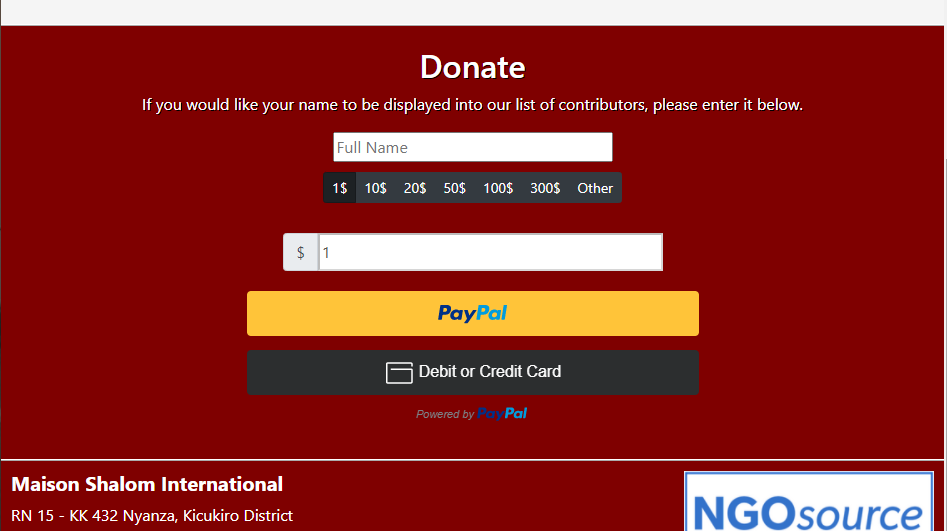
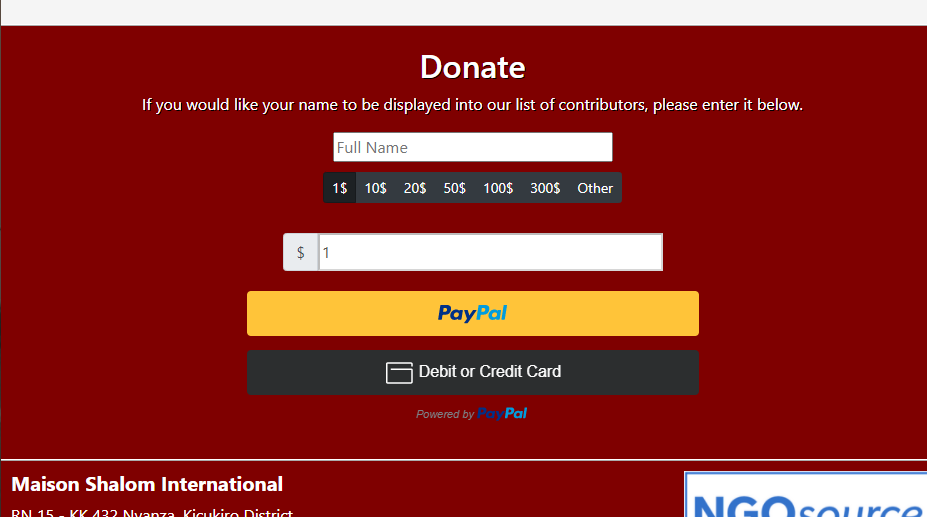
added border to donate page image

diff --git a/index.html b/index.html
@@ -55,14 +55,22 @@
 						<article class="post featured">
 							<header class="major">
 									<div class = "tools-div">
-									<a href="#csharp" ><img class="tools-logos" src="images/csharp.png" alt="C#" ></a><img class="tools-logos" src="images/cpp.png" alt="C++"><img class="tools-logos" src="images/python-logo.png" alt="python"><img class="tools-logos" src="images/html.png" alt="HTML"><img class="tools-logos" src="images/css.png" alt="CSS"><img class="tools-logos" src="images/javascript.png" alt="Js"><img class="tools-logos" src="images/angular.png" alt="Angular"><img class="tools-logos" src="images/react.png" alt="React" ><img class="tools-logos" src="images/sql.png" alt="MySQL">
+										<img class="tools-logos" src="images/csharp.png" alt="C#" >
+										<img class="tools-logos" src="images/cpp.png" alt="C++">
+										<img class="tools-logos" src="images/python-logo.png" alt="python">
+										<img class="tools-logos" src="images/html.png" alt="HTML">
+										<img class="tools-logos" src="images/css.png" alt="CSS">
+										<img class="tools-logos" src="images/javascript.png" alt="Js">
+										<img class="tools-logos" src="images/angular.png" alt="Angular">
+										<img class="tools-logos" src="images/react.png" alt="React">
+										<img class="tools-logos" src="images/sql.png" alt="MySQL">
 									</div>
 									<span class = "date" style="margin-top: 30px;" ></span>
 									<h2><a href="https://donate-page.web.app">Oasis of Peace Donation Website</a></h2>
-									<img class="tools-logos" src="images/react.png" alt="React"><img style="margin-left: 30px;margin-right: 30px;" class="tools-logos" src="images/node.png" alt="React"><img class="tools-logos" src="images/sql.png" alt="React">
+									<img class="tools-logos" src="images/react.png" alt="React">
 									<p style="font-weight: bold; text-decoration: underline;">Frontend: React JS & Bootstrap | Backend: Node.Js & MySQL</p>
 								</header>
-								<a href="https://donate-page.web.app" class="image main"><img src="images/donate.png" alt="donate-page screenshot" /></a>
+								<a href="https://donate-page.web.app" class="image main"><img style="border: solid 2px black;" src="images/donate.png" alt="donate-page screenshot" /></a>
 								<ul class="actions special">
 									<li><a href="https://github.com/yorick1125/donatepage" class="button large">Download</a><a href="https://github.com/yorick1125/donatepage" class="button large">View Code</a></li>
 								</ul>
@@ -75,9 +83,9 @@
 									<header>
 										<img class="tools-logos" src="images/csharp.png" alt="C#" id="csharp">
 										<h1 class="date">C# | Written in Collaboration with Michael Dumas</h1>
-										<h2><a href="assets/projects/flash.zip">Flashcards Application</a></h2>
+										<h2><a href="https://github.com/yorick1125/Flashcards_App">Flashcards Application</a></h2>
 									</header>
-									<a href="assets/projects/flash.zip" class="image fit"><img style="border: solid 2px black;" src="images/flashcards.png" alt="donate-page-img" /></a>
+									<a href="https://github.com/yorick1125/Flashcards_App" class="image fit"><img style="border: solid 2px black;" src="images/flashcards.png" alt="donate-page-img" /></a>
 									<p>Written in C# in collaboration with Michael Dumas, a flashcards application that allows you to start a deck, add/remove a deck or a card, rename a deck, modify cards and save your cards for later. The GUI for this application was developed using WPF. </p>
 									<ul class="actions special">
 										<li><a href="https://github.com/yorick1125/Flashcards_App" class="button">Download</a><a href="https://github.com/yorick1125/Flashcards_App" class="button">View Code</a></li>
@@ -90,7 +98,7 @@
 										<h1 class="date">Python</h1>
 										<h2><a href="assets/projects/pathfinding.py">Path Finding Visualizer</a></h2>
 									</header>
-									<a href="assets/projects/pathfinding.py" class="image fit"><img style="border: solid 3px black;" src="images/pathfinding.png" alt="pathfinding-img" /></a>
+									<a href="assets/projects/pathfinding.py" class="image fit"><img style="border: solid 2px black;" src="images/pathfinding.png" alt="pathfinding-img" /></a>
 									<p>Using Pygame library, this program allows the user to choose a starting node and end node, as well as drawing barriers. Using A* algorithm (f() = g() + h()), the program then visualizes how the algorithm proceeds to find the shortest route. <br><br> Python 3.0 is required 
 										 </p>
 									<ul class="actions special">
@@ -105,7 +113,7 @@
 										<h2><a href="assets/projects/SortingVisualizer.exe">Sorting Algorithm Visualizer</a></h2>
 									</header>
 									<a href="assets/projects/SortingVisualizer.exe" class="image fit"><img style="border: solid 3px black;" src="images/sorting.png" alt="impossible_game_img" /></a>
-									<p>A simple C++ program that displays a visual to show how sorting algorithms work.  </p>
+									<p>A simple C++ program that displays a visual to show how sorting algorithms work. Bubble Sort, Merge Sort and Insert Sort. </p>
 									<ul class="actions special">
 										<li><a href="assets/projects/SortingVisualizer.exe" class="button">Download</a><a href="assets/projects/SortingVisualizer.zip" class="button">View Code</a></li>
 									</ul>

diff --git a/assets/css/main.css b/assets/css/main.css
@@ -23,7 +23,9 @@ section, summary, time, mark, audio, video {
 	border: 0;
 	font-size: 100%;
 	font: inherit;
-	vertical-align: baseline;}
+	vertical-align: baseline;
+	scroll-behavior: smooth;
+}
 
 article, aside, details, figcaption, figure,
 footer, header, hgroup, menu, nav, section {
